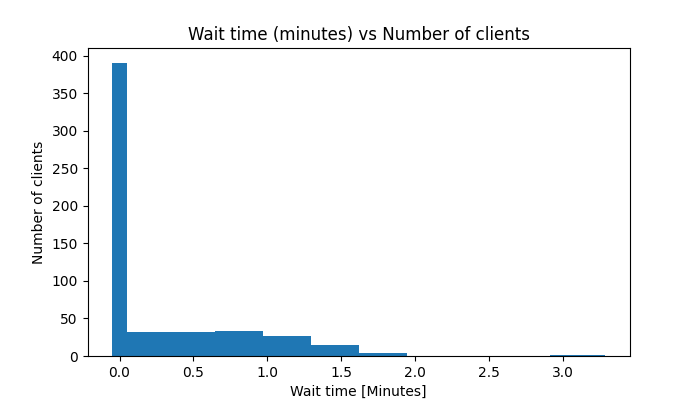
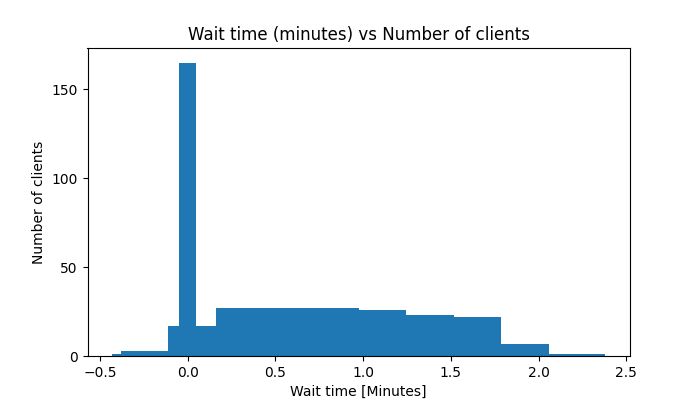
added holiday

diff --git a/helpers/Probability.py b/helpers/Probability.py
@@ -5,8 +5,6 @@
 # CustomerAgent break hours
 # Distribution of call time - if client is over 50 or blue collar assume call takes longer
 
-# What is the company signing rate (how often we have a signing?- distribution?)
-# We assume a company signing is unrelated to other companies signing
 import datetime
 import numpy as np
 import randomname
@@ -19,6 +17,9 @@ class Probabilities:
     client_patience_ex = None
     client_patience_var = None
     rain_factor = 1.3
+    proportion_of_calls_high_tech = 0.02
+    proportion_of_calls_industry = 0.05
+    holiday = None
 
     def __init__(self, time_of_day, date: datetime.datetime):
         self.time_of_day = time_of_day
@@ -127,19 +128,24 @@ class Probabilities:
         @return: return time between arrivals (hours)
         """
 
+        holiday_factor = 1.1
         if weather == 'rainy':
             weather_factor = Probabilities.rain_factor
         else:
             weather_factor = 1
 
-        # (n_ht * 0.02 + n_w*0.05) * hour_factor = base_rate
-        # n_high_tech = 60_000
-        # n_industry = 40_000
-        hightech_prop = 0.02
-        industry_prop = 0.05
+        if Probabilities.holiday == 'Yes':
+            # we set the factor as the max between holiday or rain
+            if weather == 'rainy':
+                weather_factor = max(holiday_factor, weather_factor)
+            else:
+                weather_factor = holiday_factor
+
+        high_tech_prop = Probabilities.proportion_of_calls_high_tech
+        industry_prop = Probabilities.proportion_of_calls_industry
         hour_factors = [320, 42.6, 18.28, 14.5, 12.3, 9.19, 8.64, 16, 24.61, 35.5, 45.71, 53.3, 71.1, 91.42, 160, 250]
         h_factor_map = {hour: hour_factors[i] for i, hour in enumerate(range(8, 24))}
-        base_rate = (n_high_tech * hightech_prop + n_industry * industry_prop) / h_factor_map[curr_hour.hour]
+        base_rate = (n_high_tech * high_tech_prop + n_industry * industry_prop) / h_factor_map[curr_hour.hour]
         return np.random.exponential(1 / (base_rate * weather_factor * 1.02 ** rest_queue_len))
 
     @staticmethod
@@ -196,9 +202,3 @@ class Probabilities:
         probability = np.random.uniform(0, 1)
         return probability < 0.06
 
-if __name__ == "__main__":
-    # my_date = datetime.datetime(2019, 12, 12)
-    # ps = Probabilities("16", my_date)
-    # print(ps.weather_probabilities())
-    print(1 / np.random.exponential(1 / 2000))  # bigger gap
-    print(1 / np.random.exponential(1 / 50))  # smaller gap

diff --git a/callcenter/CallCenter.py b/callcenter/CallCenter.py
@@ -62,6 +62,7 @@ class CallCenter:
         Probabilities.client_patience_ex = float(self.user_parameters.get("Client Patience ~ E(X)"))
         Probabilities.client_patience_var = float(self.user_parameters.get("Client Patience ~ V(X)"))
         Probabilities.rain_factor = float(self.user_parameters.get("Rain Factor"))
+        Probabilities.holiday = self.user_parameters.get("Holiday")
         if self.mode == 'SeparatePool':
             percentage_of_rest_agents = 0.2  # 20% of the agents will answer calls from restaurants
             self.n_rest_agents = math.ceil(

diff --git a/callcenter/Metrics.py b/callcenter/Metrics.py
@@ -39,7 +39,7 @@ class Metrics:
             self.call_client_abandoned += 1
             # add other stuff here
         else:
-            self.chat_client_abandoned +=1
+            self.chat_client_abandoned += 1
 
     def get_contact_reason_breakdown(self, contact_method):
         """
